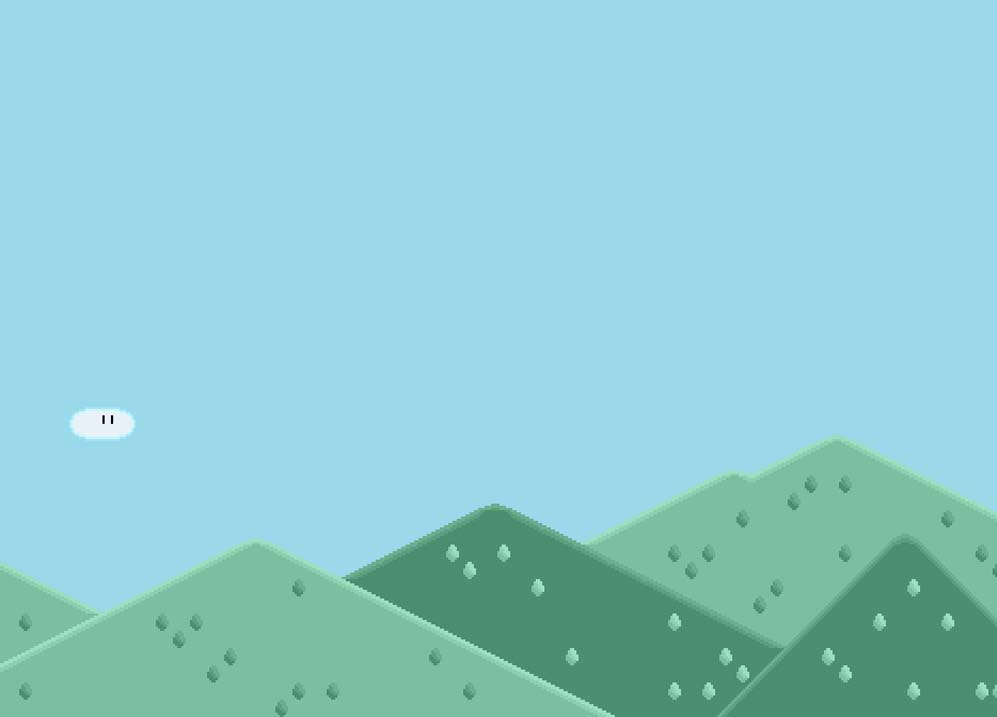
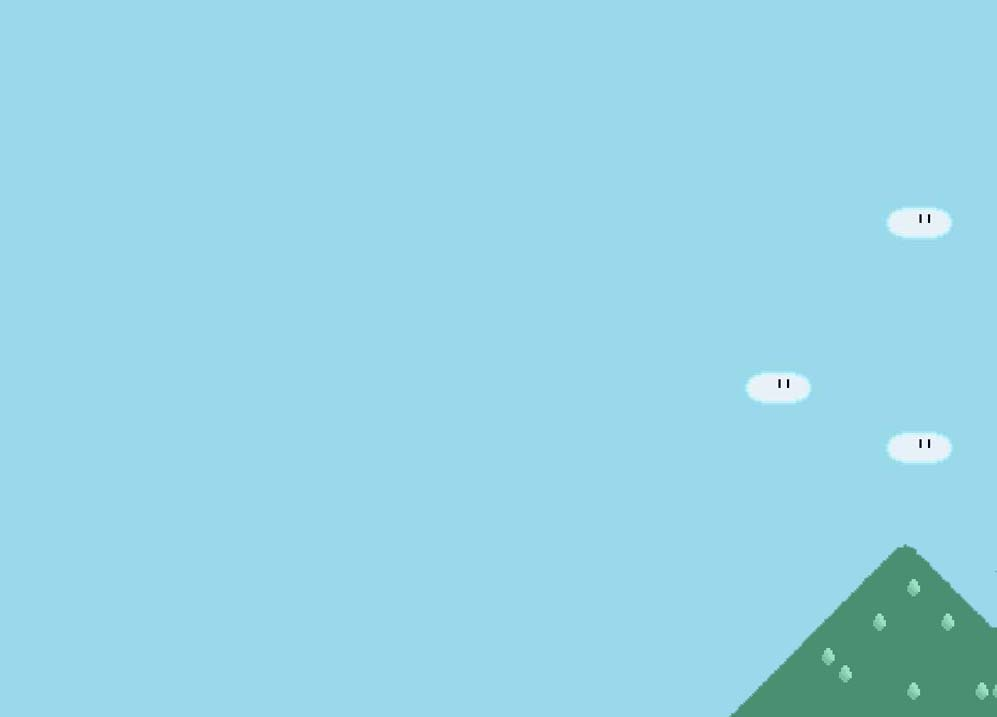
ajout des flèches + modification du bg du jeu + color border game

diff --git a/src/vue/MazeGameGUI.java b/src/vue/MazeGameGUI.java
@@ -411,15 +411,15 @@ public class MazeGameGUI extends JFrame implements MouseListener, MouseMotionLis
 		tresorToCatch.setIcon(imageTreasureToCatch);
 
 		g = new File("");
-		path = "/src/images/";
 		ret = g.getAbsolutePath() + path + "bgGame.jpg";
+		path = "/src/images/arrow/";
 		
 		bg = new ImageIcon(ret);
 		bgGame = new JLabel(); 
 		bgGame.setIcon(bg);
 		
 		pushDown2 = new JLabel();
-		ret = g.getAbsolutePath() + path + "pushDown2.png";
+		ret = g.getAbsolutePath() + path + "pushDown.png";
 		pd2 = new ImageIcon(ret);
 		pushDown2.setIcon(pd2);
 		
@@ -469,27 +469,26 @@ public class MazeGameGUI extends JFrame implements MouseListener, MouseMotionLis
 		pushLeft6 = new JLabel();
 		pl6 = new ImageIcon(ret);
 		pushLeft6.setIcon(pl6);
+
+		generalBoard.add(pushDown2, "pos 0.126al 0.5");
+		generalBoard.add(pushDown4, "pos 0.355al 0.5");
+		generalBoard.add(pushDown6, "pos 0.585al 0.5");
 		
-		generalBoard.add(pushDown2, "pos 0.1al 0.1al");
-		generalBoard.add(pushDown4, "pos 0.1al 0.2al");
-		generalBoard.add(pushDown6, "pos 0.1al 0.4al");
+		generalBoard.add(pushUp2, "pos 0.12al 0.699al");
+		generalBoard.add(pushUp4, "pos 0.35al 0.699al");
+		generalBoard.add(pushUp6, "pos 0.58al 0.699al");
 		
-		generalBoard.add(pushUp2, "pos 0.1al 0.1al");
-		generalBoard.add(pushUp4, "pos 0.1al 0.1al");
-		generalBoard.add(pushUp6, "pos 0.1al 0.1al");
+		generalBoard.add(pushLeft2, "pos 0.738al 0.116al");
+		generalBoard.add(pushLeft4, "pos 0.738al 0.333al");
+		generalBoard.add(pushLeft6, "pos 0.738al 0.553al");
 		
-		generalBoard.add(pushLeft2, "pos 0.1al 0.1al");
-		generalBoard.add(pushLeft4, "pos 0.1al 0.1al");
-		generalBoard.add(pushLeft6, "pos 0.1al 0.1al");
-		
-		generalBoard.add(pushRight2, "pos 0.1al 0.1al");
-		generalBoard.add(pushRight4, "pos 0.1al 0.1al");
-		generalBoard.add(pushRight6, "pos 0.1al 0.1al");
+		generalBoard.add(pushRight2, "pos 0.5 0.109al");
+		generalBoard.add(pushRight4, "pos 0.5 0.328al");
+		generalBoard.add(pushRight6, "pos 0.5 0.545al");
 		
 		generalBoard.add(tresorToCatch,"pos 0.892al 0.458al");
 		
-
-		mazeBoard.setBorder(BorderFactory.createMatteBorder(20, 20, 20, 20, Color.LIGHT_GRAY));
+		mazeBoard.setBorder(BorderFactory.createMatteBorder(20, 20, 20, 20, new Color(155, 216, 235)));
 		generalBoard.add(mazeBoard, "pos 0 0");
 		generalBoard.add(tresorCard, "pos 0.93al 0.45al");
 		generalBoard.add(extraCardPane, "pos 0.92al 0.03al"); //AbsoluteLayout : on positionne en pourcentage de la fenetre
